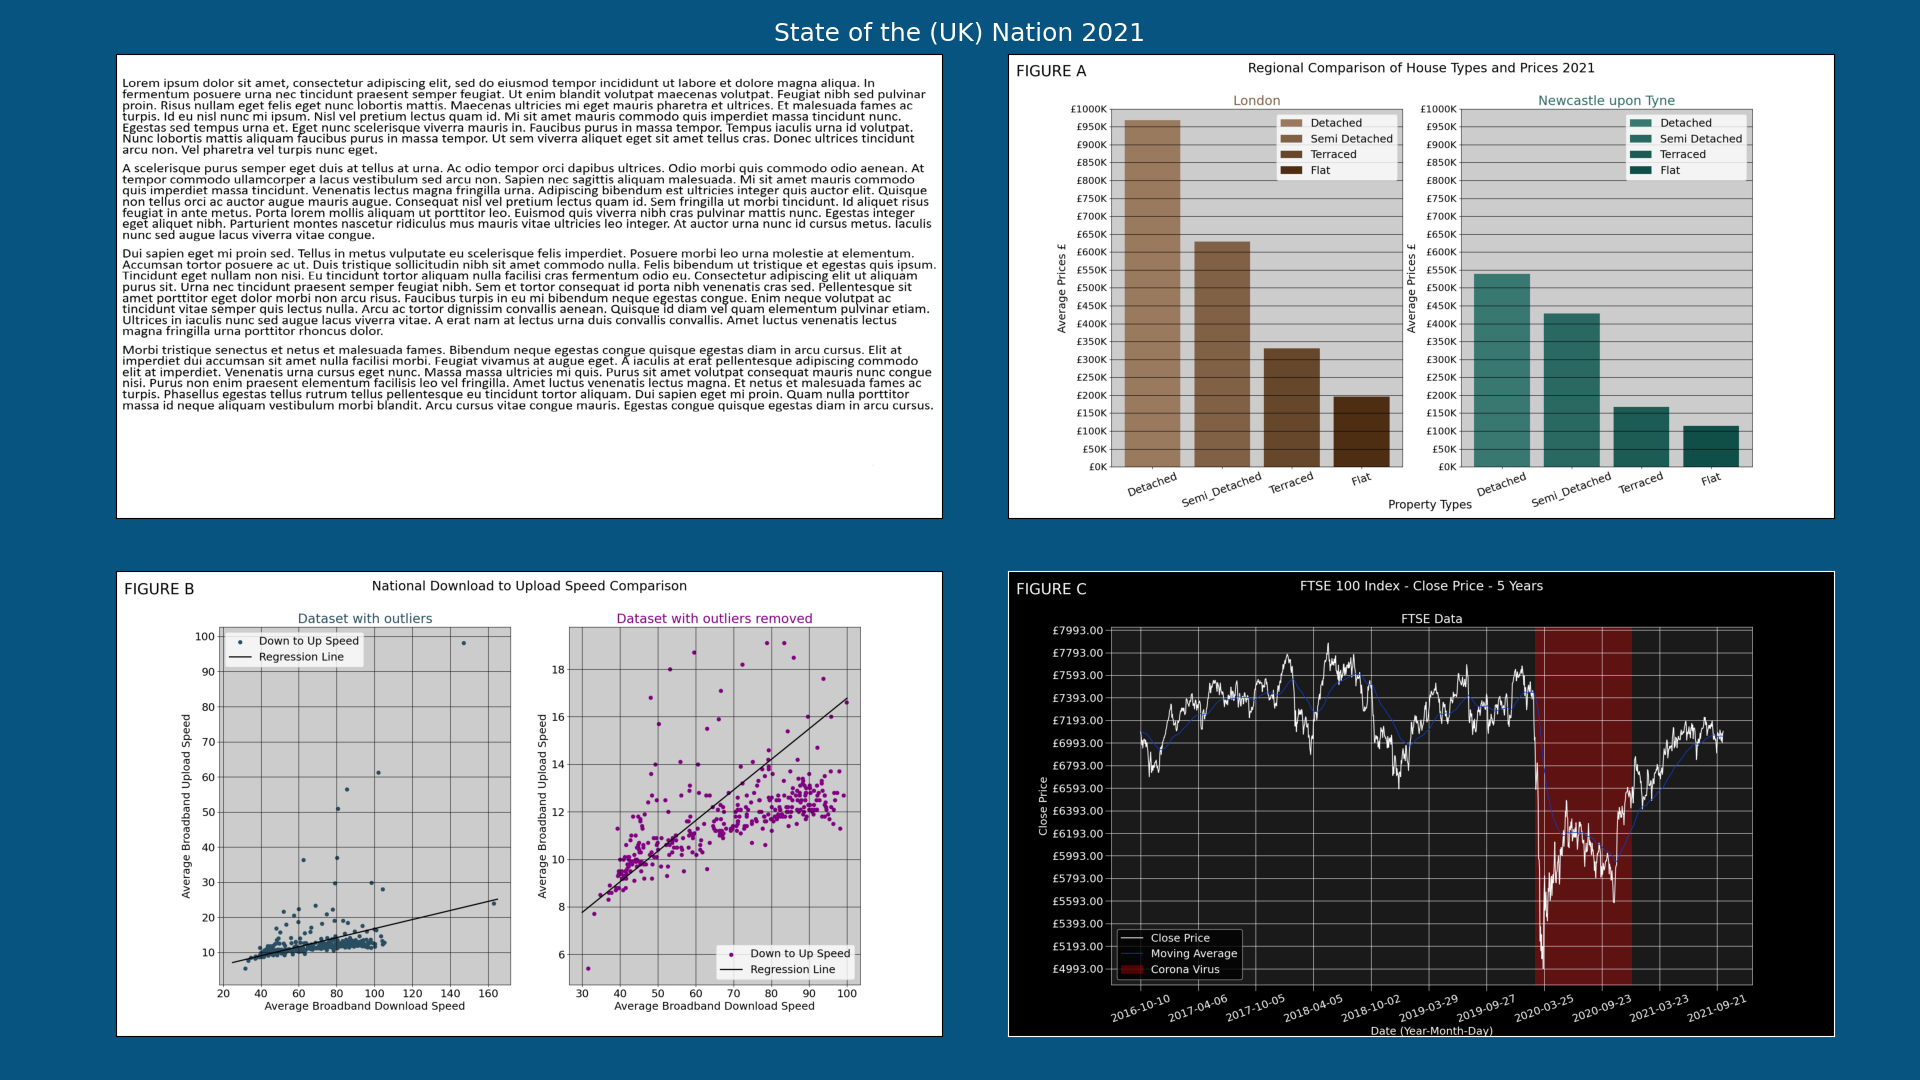
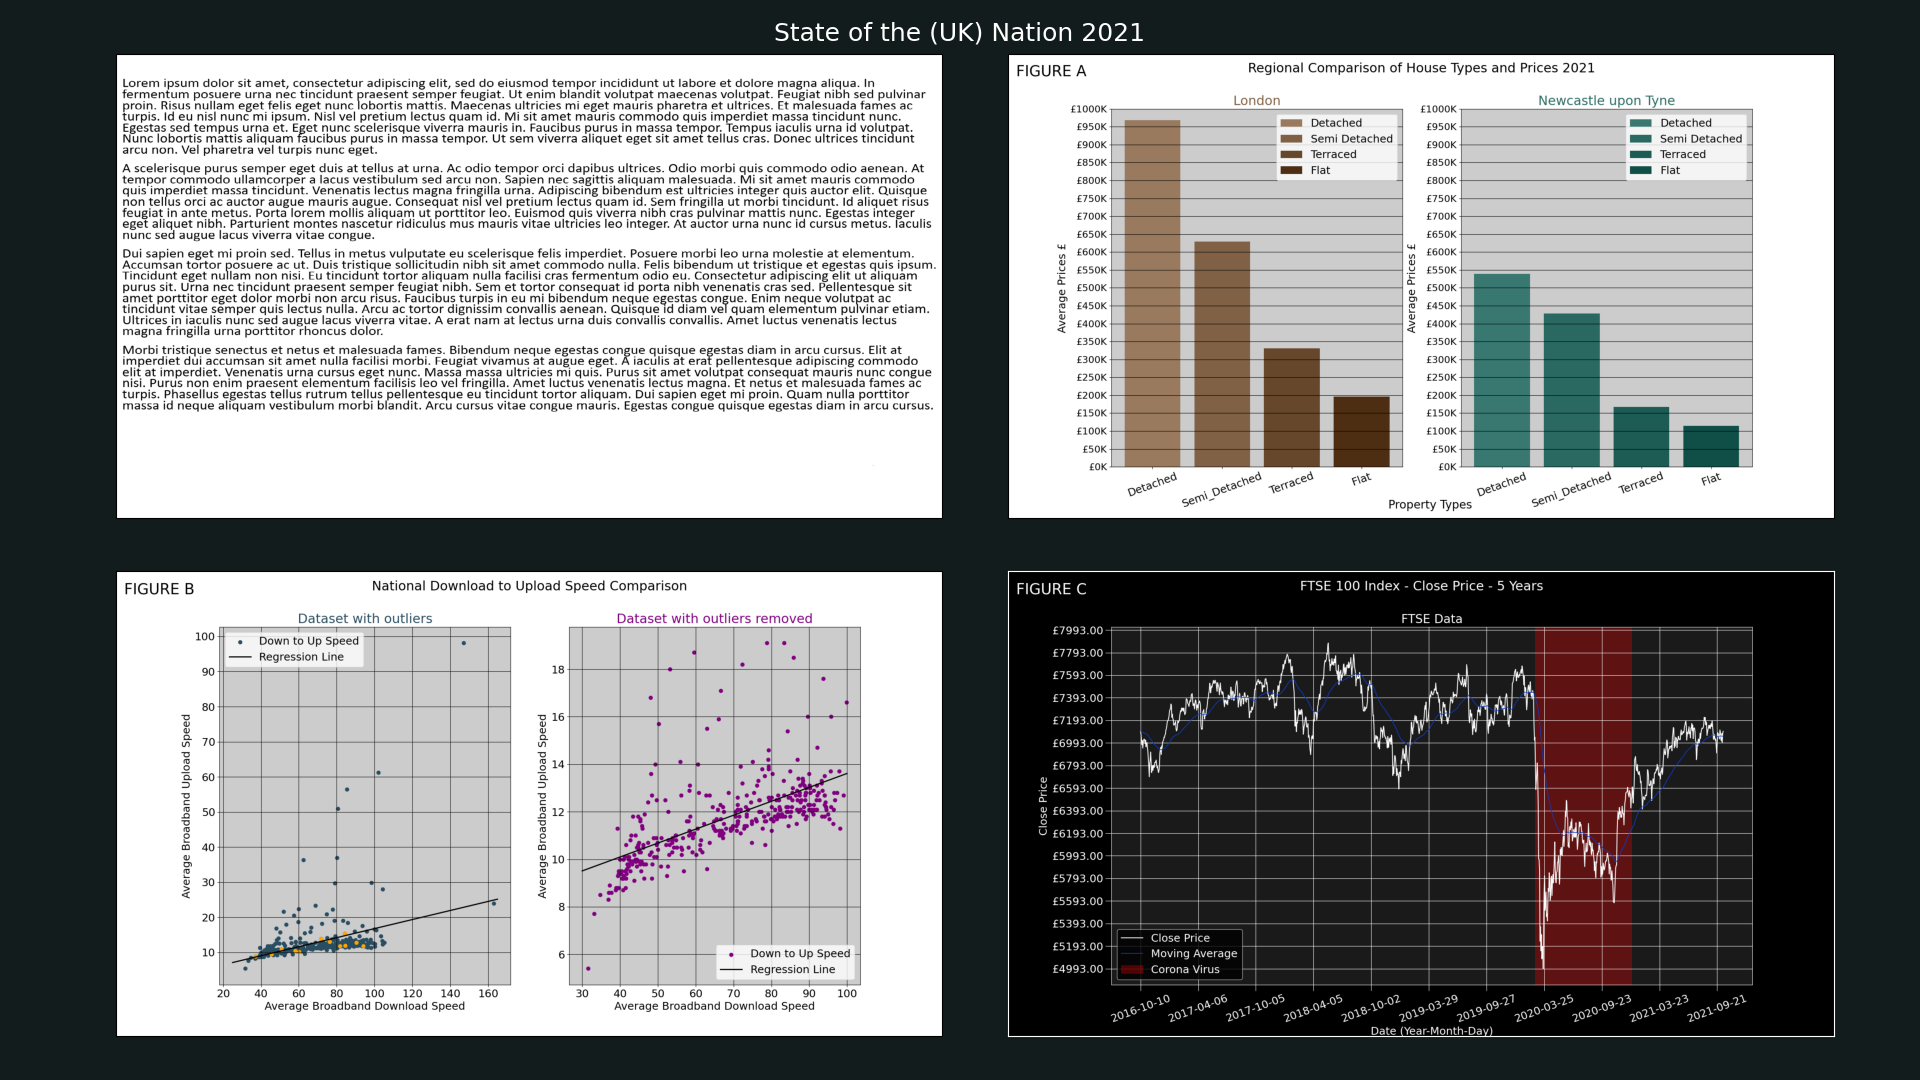
Todo: highlight part_b outliers

Changed region(s): [[0.0, 0.0, 1.0, 1.0]]

diff --git a/part_b.py b/part_b.py
@@ -1,19 +1,28 @@
 # Author: Lee Taylor, ST Number: 190211479
+import pandas as pd
+
 from imports import *
 
 ## Create house data frame
 bbSpeedDf = pd.read_csv("Data/202006_fixed_laua_performance_wrangled.csv")
 
 ## Print dataset information
-print(">>> Broadband speed original dataset")
-print(bbSpeedDf[:5])
-print(f"Len(bbSpeedDf) = {len(bbSpeedDf)}")
-print()
+# print(">>> Broadband speed original dataset")
+# print(bbSpeedDf[:5])
+# print(f"Len(bbSpeedDf) = {len(bbSpeedDf)}")
+# print()
 
 ## Print dataset copy information
 bbSpeedDf_cleaned = bbSpeedDf.__copy__()
-print(">>> Broadband speed dataset copied")
-print(bbSpeedDf_cleaned[:5])
+# print(">>> Broadband speed dataset copied")
+# print(bbSpeedDf_cleaned[:5])
+
+# ['laua', 'laua_name', 'medDown', 'averageDown', 'medUpload',
+#        'averageUpload']
+
+bbSpeedDf_outliers = pd.DataFrame(columns=['laua', 'laua_name', 'medDown',
+                                           'averageDown', 'medUpload',
+                                            'averageUpload'])
 
 ## Remove outliers by download speed
 for i,dspeed in enumerate(bbSpeedDf_cleaned['averageDown']):
@@ -21,18 +30,25 @@ for i,dspeed in enumerate(bbSpeedDf_cleaned['averageDown']):
     bbSpeedDf_cleaned.drop(index=i, inplace=True)
 bbSpeedDf_cleaned.reset_index(drop=True, inplace=True)
 ## Remove outliers by upload speed
+dropped = []
 for i,uspeed in enumerate(bbSpeedDf_cleaned['averageUpload']):
   if uspeed > 20:
-    bbSpeedDf_cleaned.drop(index=i, inplace=True)
+      dropped.append(i)
+      bbSpeedDf_outliers = bbSpeedDf_outliers.append(bbSpeedDf.loc[i])
+      bbSpeedDf_cleaned.drop(index=i, inplace=True)
 bbSpeedDf_cleaned.reset_index(drop=True, inplace=True)
 
-print(f"Len(bbSpeedDf_cleaned) = {len(bbSpeedDf_cleaned)}")
+print(bbSpeedDf_outliers)
+
+## Debug information
+# print(f"Len(bbSpeedDf_cleaned) = {len(bbSpeedDf_cleaned)}")
 
 ## Sorting by average download & upload speed has no effect
 # bbSpeedDf.sort_values(by=['averageDown', 'averageUpload'], ascending=False, inplace=True)
 
 bbs  = bbSpeedDf
 bbsc = bbSpeedDf_cleaned
+bbso = bbSpeedDf_outliers
 
 def part_b(fig, ax1, ax2, show=True, save=False):
     fig.suptitle("National Download to Upload Speed Comparison")
@@ -46,6 +62,8 @@ def part_b(fig, ax1, ax2, show=True, save=False):
     x, y = bbs['averageDown'], bbs['averageUpload']
     ax1.scatter(x=x, y=y, color=(0.16, 0.30, 0.38, 1.0),
              label='Down to Up Speed')
+    xo, yo = bbso['averageDown'], bbso['averageUpload']
+    ax1.scatter(x=xo, y=yo, color='orange')
     ax1.set_yticks(ticks=[x*10 for x in range(11)], rotation=0)
     # Regression line
     b, a = np.polyfit(x, y, deg=1)
@@ -66,10 +84,15 @@ def part_b(fig, ax1, ax2, show=True, save=False):
              label='Down to Up Speed')
     b2, a2 = np.polyfit(x2, y2, deg=1)
     xseq = np.linspace(30, 100)
-    ax2.plot(xseq, a + b * xseq, color='k', lw=2.0,
+    ax2.plot(xseq, a2 + b2 * xseq, color='k', lw=2.0,
              label='Regression Line')
     ax2.legend()
 
     if save: plt.savefig('Images/part_b.png')
     if show: plt.show()
+
+
+if __name__ == '__main__':
+    pass
+
 

diff --git a/main.py b/main.py
@@ -15,7 +15,7 @@ def collage(showplt=True, savepltimg=False):
 
     ## Configure main figure and subplots
     fig, (r1, r2) = plt.subplots(2, 2, figsize=(19.2, 10.8),
-                                 facecolor=(0.03, 0.33, 0.50, 1))
+                                 facecolor=(0.07, 0.11, 0.11, 1))
     fig.suptitle("State of the (UK) Nation 2021", size=18, color='white')
     fig.tight_layout(pad=0.4)
     plt.subplots_adjust(wspace=-0.05)
